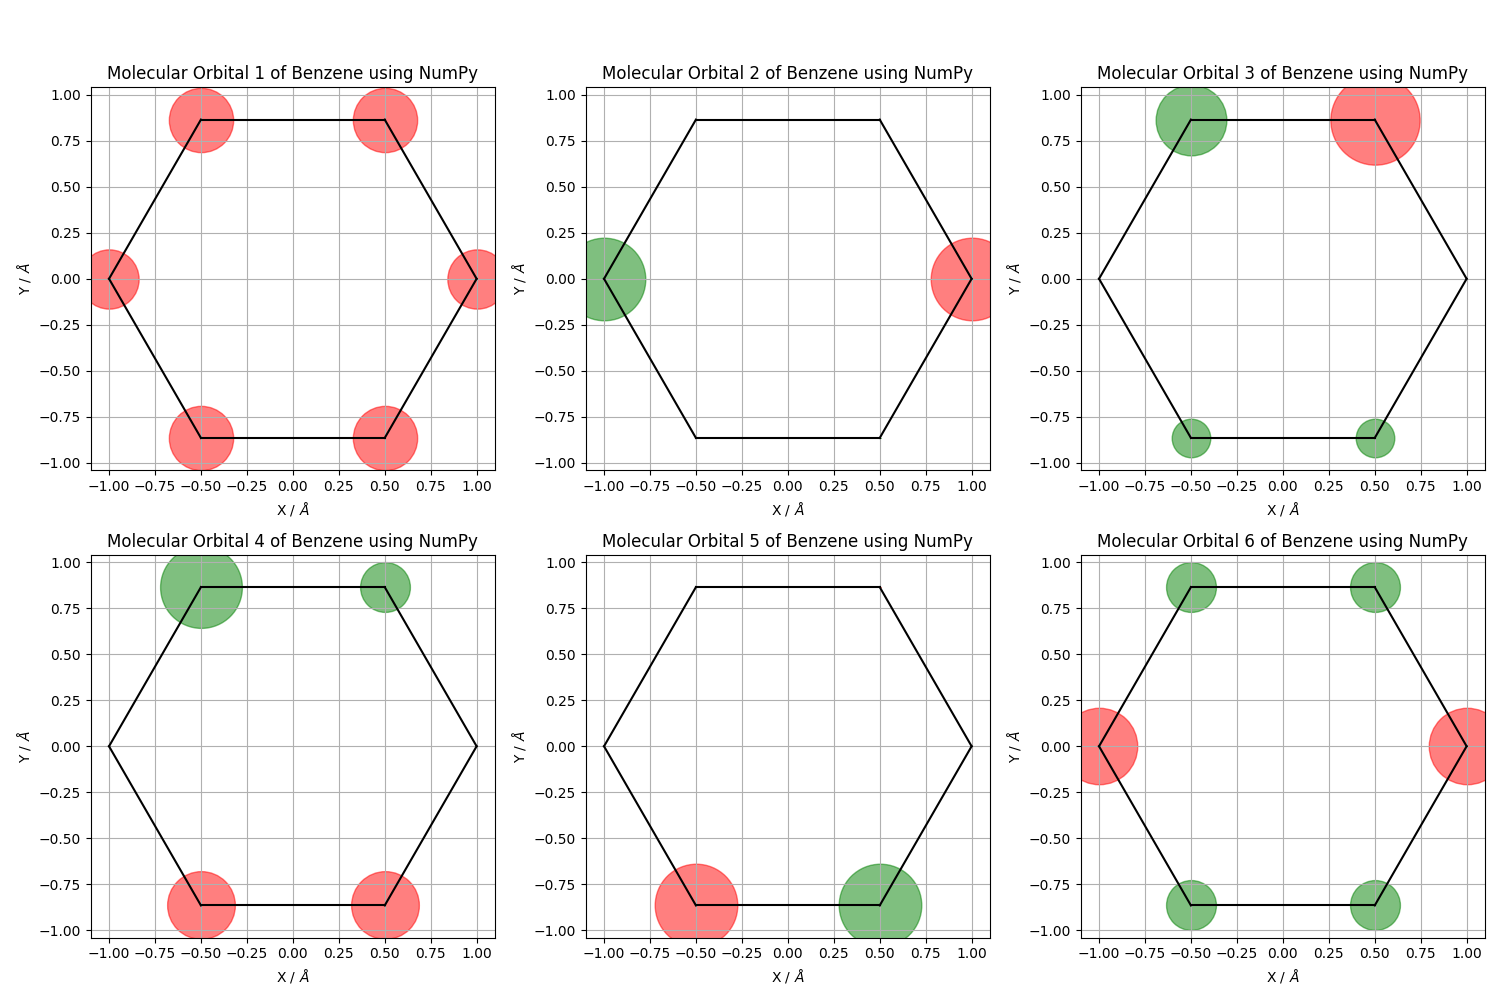
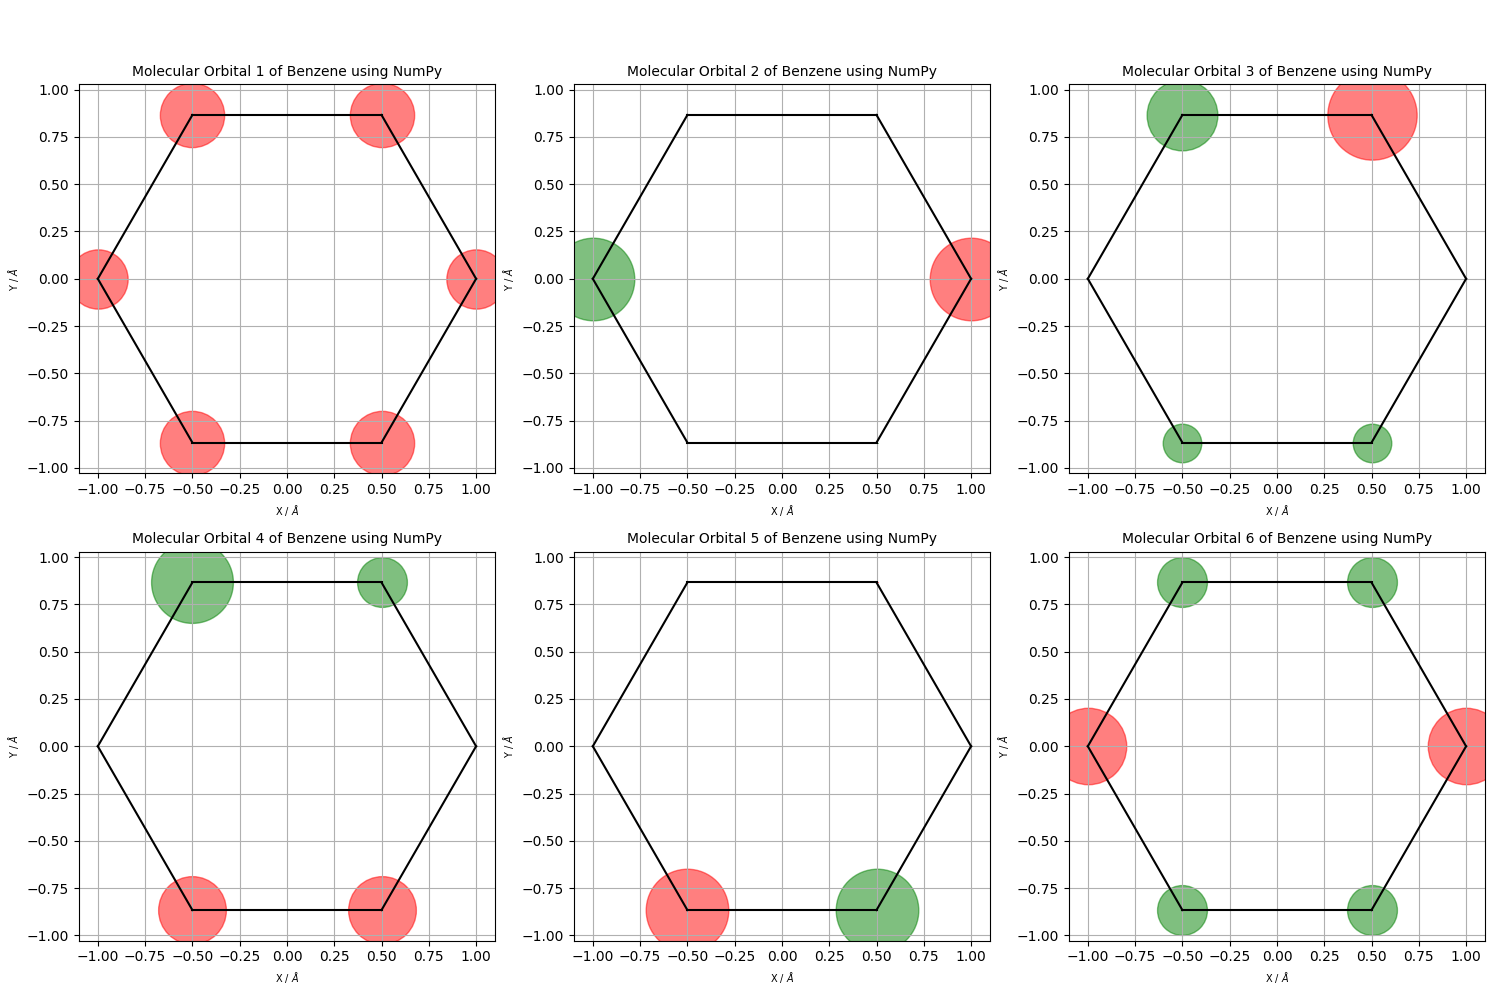
implemented combined plots into plot molecular orbitals pytorch in general huckel functionality

diff --git a/inverse_huckel/general_huckel_functionality.py b/inverse_huckel/general_huckel_functionality.py
@@ -60,7 +60,13 @@ class MolecularSystem:
         num_cols = min(num_mos, 3)  # Maximum of 3 columns
         num_rows = (num_mos + num_cols - 1) // num_cols
 
-        fig, axes = plt.subplots(num_rows, num_cols, figsize=(5*num_cols, 5*num_rows))
+        fig, axes = plt.subplots(num_rows, num_cols, figsize=(5 * num_cols, 5 * num_rows))
+
+        max_circle_size = 2500 * np.max(np.abs(wavefunctions))
+        margin = max_circle_size ** 0.5 / 2  # Calculate the margin to fit the largest circle
+
+        min_x, max_x = np.min(coordinates[:, 0]) - margin, np.max(coordinates[:, 0]) + margin
+        min_y, max_y = np.min(coordinates[:, 1]) - margin, np.max(coordinates[:, 1]) + margin
 
         for i in range(num_mos):
             row = i // num_cols
@@ -75,18 +81,29 @@ class MolecularSystem:
             # Draw lines for pairs of atoms with short distances
             self.draw_short_distance_lines(coordinates, axes[row, col])
 
-            axes[row, col].set_xlabel('X / $\AA$')
-            axes[row, col].set_ylabel('Y / $\AA$')
-            axes[row, col].set_title(f'Molecular Orbital {i+1} of {molecule_name} using NumPy')
+            axes[row, col].set_xlim(min_x, max_x)
+            axes[row, col].set_ylim(min_y, max_y)
+            axes[row, col].set_xlabel('X / $\AA$', fontsize=7)
+            axes[row, col].set_ylabel('Y / $\AA$',fontsize=7)
+            axes[row, col].set_title(f'Molecular Orbital {i+1} of {molecule_name} using NumPy', fontsize=10)
             axes[row, col].axis('equal')
             axes[row, col].grid(True)
-        plt.subplots_adjust(hspace=0.3, bottom=0.15, top=0.9)  # Adjust the vertical spacing between rows and bottom margin
-        plt.tight_layout(rect=[0, 0, 1, 0.95])  # Adjust the layout to prevent overlap
-        plt.savefig(f'{molecule_name}_molecular_orbitals.png')
-        plt.show()
 
+        # Remove any unused subplots
+        for ax in axes.flatten()[num_mos:]:
+            fig.delaxes(ax)
+
+    
+        plt.tight_layout(rect=[0, 0, 1, 0.95])  # Adjust the layout to prevent overlap
+        file_name = f'{molecule_name}_molecular_orbitals.png'
+        file_path = os.path.join("C:\\Users\\ogunn\\Documents\\GitHub\\inverse-huckel.git\\inverse_huckel", file_name)
+        plt.savefig(file_path)
+        plt.show()
+        plt.close(fig)  # Close the figure to free up memory
+
+    
     def draw_short_distance_lines(self, coordinates, ax):
-        threshold_distance = 1  # rough distance between each coordinate pair
+        threshold_distance = 1.5  # rough distance between each coordinate pair
         for i in range(len(coordinates)):
             for j in range(i + 1, len(coordinates)):
                 distance = np.linalg.norm(coordinates[i] - coordinates[j])
@@ -94,9 +111,6 @@ class MolecularSystem:
                     ax.plot([coordinates[i, 0], coordinates[j, 0]], [coordinates[i, 1], coordinates[j, 1]], 'k-')
 
 
-
-
-    
     # def plot_molecular_orbitals(self, coordinates,i, molecule_name = "Molecule"): # old code
     #     energies, wavefunctions = self.solve_eigenvalue_problem()
     #     #print("energy of MO ", i+1, ":", energies[i])
@@ -122,8 +136,6 @@ class MolecularSystem:
     #     plt.show()
     #     plt.close(fig)  # Close the figure to free up memory
 
-   
-
 
     # def draw_short_distance_lines(self, coordinates): # old code
     #     threshold_distance = 2  # rough distance between each coordinate pair
@@ -133,34 +145,83 @@ class MolecularSystem:
     #             if distance <= threshold_distance:
     #                 plt.plot([coordinates[i, 0], coordinates[j, 0]], [coordinates[i, 1], coordinates[j, 1]], 'k-')
 
-   
-    def plot_molecular_orbitals_pytorch(self, coordinates, i, molecule_name="Molecule"): # old code
+    def plot_molecular_orbitals_pytorch(self, coordinates, molecule_name="Molecule"):
         energies, wavefunctions = self.solve_eigenvalue_problem_pytorch()
+        num_mos = wavefunctions.shape[1]  # Calculate the number of molecular orbitals
 
-        fig = plt.figure()
-        # Draw lines for pairs of atoms with short distances
-        self.draw_short_distance_lines(coordinates)
+        # Calculate the number of rows and columns for the subplot grid
+        num_cols = min(num_mos, 3)  # Maximum of 3 columns
+        num_rows = (num_mos + num_cols - 1) // num_cols
 
-        circle_sizes = torch.abs(wavefunctions[:, i]) * 5000  # Use absolute value of the corresponding wavefunctions
-        # Extract the real part of wavefunctions
-        real_wavefunctions = wavefunctions[:, i].real
-        # Use real part for color instead of direct comparison
-        colors = ['green' if val >= 0 else 'red' for val in real_wavefunctions]
-        for j in range(len(coordinates)):
-            plt.scatter(coordinates[j, 0], coordinates[j, 1], s=circle_sizes[j], color=colors[j], alpha=0.5)
+        fig, axes = plt.subplots(num_rows, num_cols, figsize=(7 * num_cols, 7 * num_rows))
 
-        plt.xlabel('X / $\AA$')
-        plt.ylabel('Y / $\AA$')
-        plt.title(f'Molecular Orbital {i+1} of {molecule_name} using PyTorch')
-        plt.axis('equal')
-        plt.grid(True)
-        
-        # save plot as PNG file
-        file_name = f'Molecular Orbital {i+1} of {molecule_name}_pytorch.png'
+        max_circle_size = 5000 * torch.max(torch.abs(wavefunctions)).item()
+        margin = max_circle_size ** 0.5 / 2  # Calculate the margin to fit the largest circle
+
+        min_x, max_x = np.min(coordinates[:, 0]) - margin, np.max(coordinates[:, 0]) + margin
+        min_y, max_y = np.min(coordinates[:, 1]) - margin, np.max(coordinates[:, 1]) + margin
+
+        for i in range(num_mos):
+            row = i // num_cols
+            col = i % num_cols
+
+            circle_sizes = torch.abs(wavefunctions[:, i]) * 5000
+            real_wavefunctions = wavefunctions[:, i].real
+            colors = ['green' if val >= 0 else 'red' for val in real_wavefunctions]
+
+            for j in range(len(coordinates)):
+                axes[row, col].scatter(coordinates[j, 0], coordinates[j, 1], s=circle_sizes[j].item(), color=colors[j], alpha=0.5)
+
+            # Draw lines for pairs of atoms with short distances
+            self.draw_short_distance_lines(coordinates, axes[row, col])
+
+            axes[row, col].set_xlim(min_x, max_x)
+            axes[row, col].set_ylim(min_y, max_y)
+            axes[row, col].set_xlabel('X / $\AA$', fontsize=10)
+            axes[row, col].set_ylabel('Y / $\AA$', fontsize=10)
+            axes[row, col].set_title(f'Molecular Orbital {i+1} of {molecule_name} using PyTorch', fontsize=12)
+            axes[row, col].axis('equal')
+            axes[row, col].grid(True)
+
+        # Remove any unused subplots
+        for ax in axes.flatten()[num_mos:]:
+            fig.delaxes(ax)
+
+        plt.subplots_adjust(hspace=0.5, wspace=0.4, bottom=0.1, top=0.9)  # Adjust the spacing
+        plt.tight_layout(rect=[0, 0, 1, 0.95])  # Adjust the layout to prevent overlap
+
+        file_name = f'{molecule_name}_molecular_orbitals_pytorch.png'
         file_path = os.path.join("C:\\Users\\ogunn\\Documents\\GitHub\\inverse-huckel.git\\inverse_huckel", file_name)
-        plt.show()
         plt.savefig(file_path)
-        plt.close(fig)  # Close the figure to free up memory
+        plt.show()
+   
+    # def plot_molecular_orbitals_pytorch(self, coordinates, i, molecule_name="Molecule"): # old code
+    #     energies, wavefunctions = self.solve_eigenvalue_problem_pytorch()
+
+    #     fig = plt.figure()
+    #     # Draw lines for pairs of atoms with short distances
+    #     self.draw_short_distance_lines(coordinates)
+
+    #     circle_sizes = torch.abs(wavefunctions[:, i]) * 5000  # Use absolute value of the corresponding wavefunctions
+    #     # Extract the real part of wavefunctions
+    #     real_wavefunctions = wavefunctions[:, i].real
+    #     # Use real part for color instead of direct comparison
+    #     colors = ['green' if val >= 0 else 'red' for val in real_wavefunctions]
+    #     for j in range(len(coordinates)):
+    #         plt.scatter(coordinates[j, 0], coordinates[j, 1], s=circle_sizes[j], color=colors[j], alpha=0.5)
+
+    #     plt.xlabel('X / $\AA$')
+    #     plt.ylabel('Y / $\AA$')
+    #     plt.title(f'Molecular Orbital {i+1} of {molecule_name} using PyTorch')
+    #     plt.axis('equal')
+    #     plt.grid(True)
+        
+    #     # save plot as PNG file
+    #     file_name = f'Molecular Orbital {i+1} of {molecule_name}_pytorch.png'
+    #     file_path = os.path.join("C:\\Users\\ogunn\\Documents\\GitHub\\inverse-huckel.git\\inverse_huckel", file_name)
+    #     plt.show()
+    #     plt.savefig(file_path)
+    #     plt.close(fig)  # Close the figure to free up memory
 
 
     def plot_energy_levels(self, energies, molecule_name="Molecule"): #isn't reproducable for pytorch because enrgies aren't ordered

diff --git a/inverse_huckel/general_huckel_oop.py b/inverse_huckel/general_huckel_oop.py
@@ -31,7 +31,7 @@ benzene_coordinates = np.array([
 molecular_system_benzene = MolecularSystem(benzene_coordinates, alpha, beta, cutoff_distance)
 
 #plot molecular orbitals
-molecular_system_benzene.plot_molecular_orbitals(benzene_coordinates, "Benzene")
+#molecular_system_benzene.plot_molecular_orbitals(benzene_coordinates, "Benzene")
 
 # plot energy levels
 #energies_benzene = molecular_system_benzene.solve_eigenvalue_problem()[0]  # obtaining the energy, [0] is used to access the first element of the tuple which corresponds to the eigenvalues
@@ -41,12 +41,12 @@ molecular_system_benzene.plot_molecular_orbitals(benzene_coordinates, "Benzene")
 #obtain energy
 #energies_pytorch = molecular_system_benzene.solve_eigenvalue_problem_pytorch()
 # new code for some reason
-energies_pytorch, wavefunctions_pytorch = molecular_system_benzene.solve_eigenvalue_problem_pytorch()
+#energies_pytorch, wavefunctions_pytorch = molecular_system_benzene.solve_eigenvalue_problem_pytorch()
 
 
 
 # # plot molecular orbitals - pytorch
-# molecular_system_benzene.plot_molecular_orbitals_pytorch(benzene_coordinates, 0, "Benzene")
+molecular_system_benzene.plot_molecular_orbitals_pytorch(benzene_coordinates,"Benzene")
 
 # #plot energy levels - pytorch
 #molecular_system_benzene.plot_energy_levels_pytorch(energies_pytorch, "Benzene")
@@ -69,10 +69,10 @@ naphthalene_coordinates = np.array([
 ])
 
 # create molecular system instance
-#molecular_system_naphthalene = MolecularSystem(naphthalene_coordinates, alpha, beta, cutoff_distance)
+molecular_system_naphthalene = MolecularSystem(naphthalene_coordinates, alpha, beta, cutoff_distance)
 
 # plot molecular orbitals
-#molecular_system_naphthalene.plot_molecular_orbitals(naphthalene_coordinates,0, "Naphthalene")
+#molecular_system_naphthalene.plot_molecular_orbitals(naphthalene_coordinates,"Naphthalene")
 
 # obtain energy
 #energies_naphthalene = molecular_system_naphthalene.solve_eigenvalue_problem()[0]
@@ -83,10 +83,11 @@ naphthalene_coordinates = np.array([
 
 #obtain energy - pytorch
 #energies_pytorch = molecular_system_naphthalene.solve_eigenvalue_problem_pytorch()
-#energies_pytorch, eigenvectros_pytorch = molecular_system_naphthalene.solve_eigenvalue_problem_pytorch()
+#energies_pytorch, eigenvectors_pytorch = molecular_system_naphthalene.solve_eigenvalue_problem_pytorch()
+#energies_pytorch, wavefunctions_pytorch = molecular_system_naphthalene.solve_eigenvalue_problem_pytorch()
 
 #plot molecular orbitals- pytorch
-#molecular_system_naphthalene.plot_molecular_orbitals_pytorch(naphthalene_coordinates, 0, "Naphthalene")
+molecular_system_naphthalene.plot_molecular_orbitals_pytorch(naphthalene_coordinates, "Naphthalene")
 
 #plot energy levels-pytorch
 #molecular_system_naphthalene.plot_energy_levels_pytorch(energies_pytorch, "Naphthalene")
